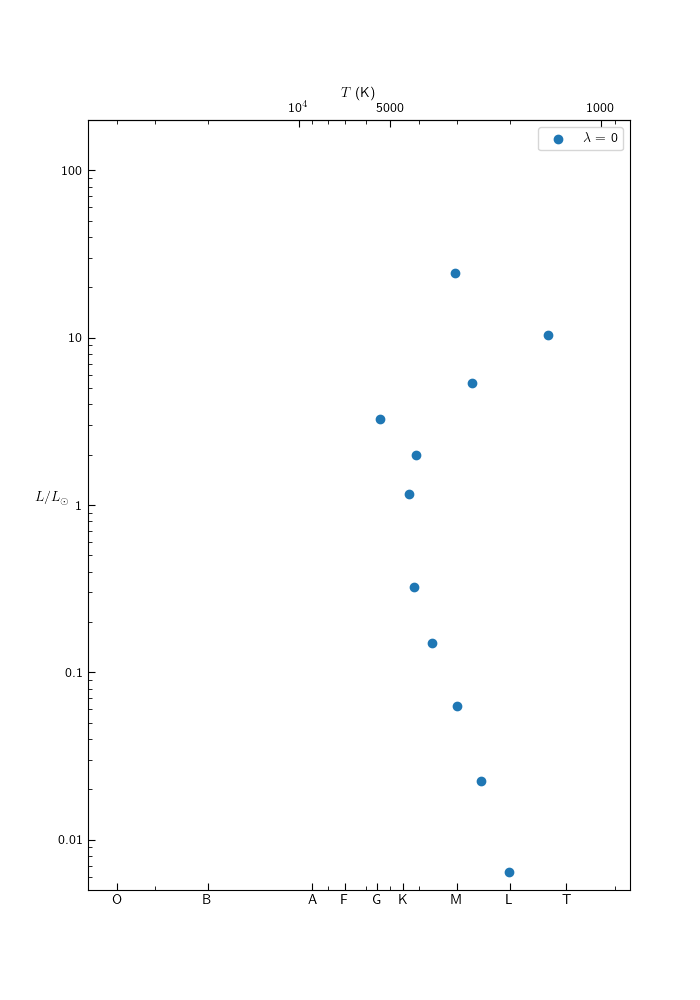
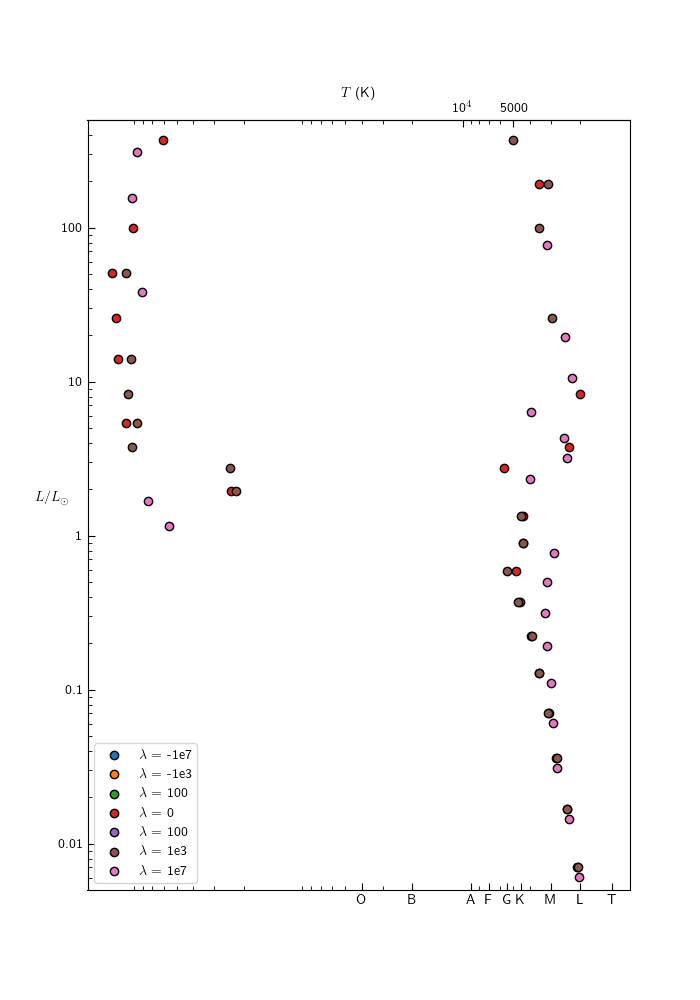
graphical alterations

diff --git a/diagrams.py b/diagrams.py
@@ -20,8 +20,8 @@ def HR_diag(data, savepath=""):
     """
     fig, ax = plt.subplots(figsize=(7,10))
 
-    ax.set_xlim(800, 5e4)
-    ax.set_ylim(0.005, 200)
+    #ax.set_xlim(800, 5e4)
+    ax.set_ylim(0.005, 500)
     ax.invert_xaxis()
     ax.set_xscale('log')
     ax.yaxis.set_major_locator(tk.MultipleLocator(50))
@@ -44,7 +44,7 @@ def HR_diag(data, savepath=""):
 
         Lscaled = fff[filter].L/s.Lsun * 1e-7
 
-        ax.scatter(fff[filter].Tsurf, Lscaled, label=rf'$\lambda$ = {lam}')
+        ax.scatter(fff[filter].Tsurf, Lscaled, label=rf'$\lambda$ = {lam}', edgecolor='black', lw=1)
 
     #from p. 342 in Ryden
     spectral_type = ['O', 'B', 'A', 'F', 'G', 'K', 'M', 'L', 'T']
@@ -87,7 +87,7 @@ def LM_diag(data, savepath=""):
         Lscaled = fff[filter].L/s.Lsun * 1e-7
         Mscaled = fff[filter].M/s.Msun / 1000
 
-        ax.scatter(np.log10(Mscaled), np.log10(Lscaled), label=rf'$\lambda$ = {lam}')
+        ax.scatter(np.log10(Mscaled), np.log10(Lscaled), label=rf'$\lambda$ = {lam}', edgecolor='black', lw=1)
 
     #from Ryden p. 330
     Mtest = np.linspace(0.1, 80, 100)
@@ -131,7 +131,7 @@ def RM_diag(data, savepath=""):
         Rscaled = fff[filter].R/s.Rsun / 100
         Mscaled = fff[filter].M/s.Msun / 1000
 
-        ax.scatter(np.log10(Mscaled), np.log10(Rscaled), label=rf'$\lambda$ = {lam}')
+        ax.scatter(np.log10(Mscaled), np.log10(Rscaled), label=rf'$\lambda$ = {lam}', edgecolor='black', lw=1)
 
     #from Ryden p. 330
     Mtest = np.linspace(0.1, 80, 100)
@@ -162,7 +162,7 @@ def RM_diag(data, savepath=""):
 if __name__ == '__main__':
 
     both = []
-    for lam in ['-1e8', '-1e3', '100', '0', '100', '1e3', '1e8']:
+    for lam in ['-1e7', '-1e3', '100', '0', '100', '1e3', '1e7']:
         data = pd.read_csv(os.path.join(s.data_folder, f'stars_lam_{lam}', 'generated_stars.csv'), header=0)[:50]
         both.append((data, lam))
 
@@ -173,9 +173,9 @@ if __name__ == '__main__':
         #HR_diag(data, hr_path)
         #LM_diag(data, lm_path)
         #RM_diag(data, rm_path)
-    data = pd.read_csv(os.path.join(s.data_folder, 'stars_lam_0', 'generated_stars.csv'), header=0)[:50]
+    #data = pd.read_csv(os.path.join(s.data_folder, 'stars_lam_0', 'generated_stars.csv'), header=0)[:50]
 
-    both = [(data,0)]
+    #both = [(data,0)]
     hr_path = os.path.join(s.plots_folder, 'HR_diag_comp')
     lm_path = os.path.join(s.plots_folder, 'LM_diag_comp')
     rm_path = os.path.join(s.plots_folder, 'RM_diag_comp')
